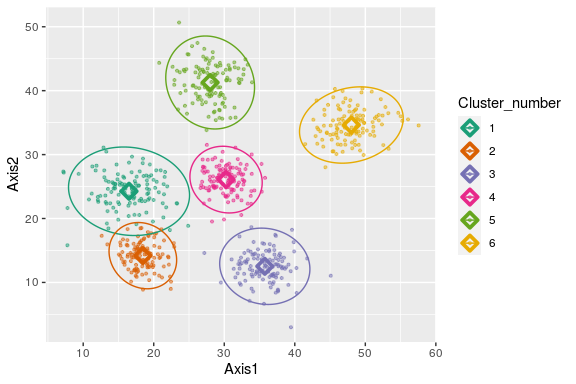
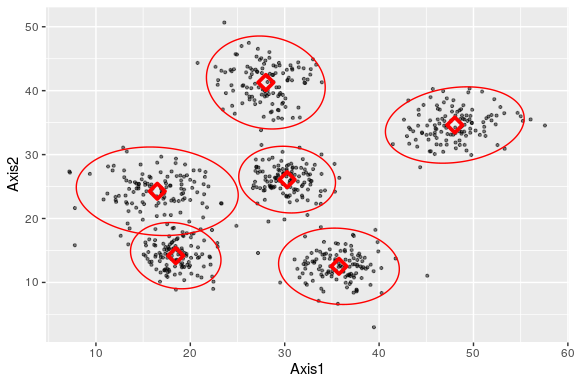
Simplify the plotting code.

diff --git a/README.md b/README.md
@@ -1,15 +1,13 @@
 
-<!-- README.md is generated from README.Rmd. Please edit that file -->
+
 
 # RobustEM
 
-<!-- badges: start -->
-
-<!-- badges: end -->
 
 The goal of RobustEM is to carry out clustering on high dimensional
 points using expectation-maximization algorithm which is robust against
-outliers.
+outliers. To install the package, make sure you have `devtools` package
+loaded and type `install_github("mkbwang/RobustEM")`.
 
 ## Usage Example
 
@@ -60,4 +58,4 @@ summary(result)
 plot(result)
 ```
 
-<img src="man/figures/README-unnamed-chunk-2-1.png" width="100%" /><img src="man/figures/README-unnamed-chunk-2-2.png" width="100%" />
+<img src="man/figures/README-unnamed-chunk-2-2.png" width="100%" />
